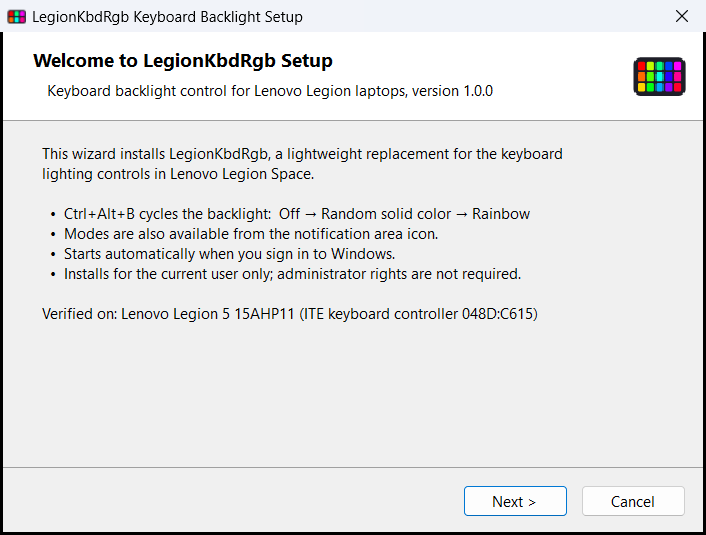
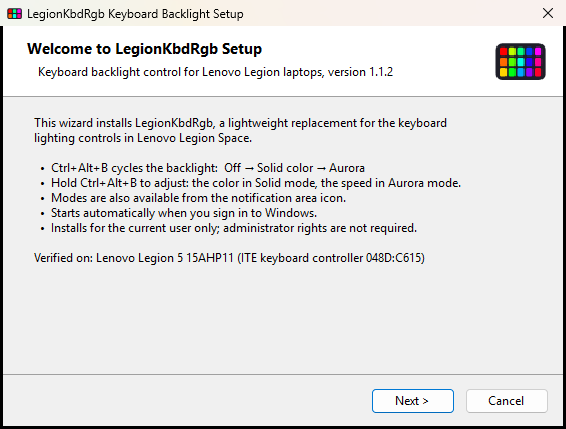
Adjustable Aurora speed and illustrated README (1.1.2)
Aurora mode now has the same hold-to-adjust interaction as Solid mode:
holding Ctrl+Alt+B steps the color-cycle time from 20 s down to 2 s in
1 s steps (one step every 0.35 s), wrapping back to 20 s after the
fastest setting. The value is persisted as a 4th field in state.txt.
The OSD shows it on a calm monochrome Slow-Fast track with one tick per
step, the "N s / cycle" value and a hold/release hint; the Aurora mode
dot rotates at the chosen speed.

README gains a "How to use" section with rendered OSD images for every
mode and both adjust actions, and a refreshed setup-wizard screenshot.
The setup wizard text mentions both hold actions.

diff --git a/src/KbdRgb.cs b/src/KbdRgb.cs
@@ -98,6 +98,7 @@ class LightingWorker {
   readonly object gate = new object();
   Mode mode;
   Color solid;
+  int cycleSeconds = 8;
   int requested, rendered = -1;
   volatile bool stopping;
 
@@ -111,6 +112,9 @@ class LightingWorker {
     lock (gate) { mode = m; solid = c; requested++; }
     wake.Set();
   }
+
+  // Aurora: seconds per trip around the hue wheel. Takes effect on the next frame.
+  public void SetCycle(int seconds) { lock (gate) cycleSeconds = seconds; }
 
   // Re-apply immediately, e.g. after resume or unlock.
   public void Kick() { lock (gate) requested++; wake.Set(); }
@@ -127,15 +131,15 @@ class LightingWorker {
     int failures = 0;
     bool reportedMissing = false;
     while (!stopping) {
-      Mode m; Color c; int req;
-      lock (gate) { m = mode; c = solid; req = requested; }
+      Mode m; Color c; int req, cycle;
+      lock (gate) { m = mode; c = solid; req = requested; cycle = cycleSeconds; }
       var now = DateTime.UtcNow;
       int wait;
       try {
         bool due = m == Mode.Rainbow || req != rendered || now >= nextRefresh;
         if (due) {
           if (m == Mode.Rainbow) {
-            hue = (hue + (now - last).TotalSeconds * 360.0 / 8.0) % 360.0; // full cycle every 8 s
+            hue = (hue + (now - last).TotalSeconds * 360.0 / cycle) % 360.0;
             c = Hsv(hue, 1, 1);
           } else if (m == Mode.Off) c = Color.Black;
           last = now;
@@ -182,6 +186,11 @@ class App : ApplicationContext {
   const int VK_CONTROL = 0x11, VK_MENU = 0x12;
   const int HoldThresholdMs = 400;       // shorter press = tap (next mode)
   const double PickCycleSeconds = 6.0;   // one full trip around the hue wheel while holding
+  // Aurora speed: seconds per color cycle, adjusted in whole-second steps. 2 s is about as fast as
+  // a calm full-keyboard color cycle gets before it reads as flashing; beyond 20 s the change is
+  // hard to notice at all.
+  public const int MinCycle = 2, MaxCycle = 20, DefaultCycle = 8;
+  const int SpeedStepMs = 350;           // while holding, move one step this often
   // Firmware default of the Legion 5 15AHP11 keyboard profile (#5805FF).
   static readonly Color DefaultSolid = Color.FromArgb(0x58, 0x05, 0xFF);
   static readonly string StateFile = Path.Combine(AppDomain.CurrentDomain.BaseDirectory, "state.txt");
@@ -196,6 +205,8 @@ class App : ApplicationContext {
   DateTime pressedAt, lastPickTick;
   bool pressPending, picking;
   double pickHue;
+  int auroraCycle = DefaultCycle;
+  DateTime lastSpeedStep;
   readonly EventWaitHandle exitEvent;
   bool hotkeyOk, hotkeyWarned;
   Mode mode;
@@ -274,11 +285,11 @@ class App : ApplicationContext {
 
   void Next() { Apply((Mode)(((int)mode + 1) % 3)); }
 
-  // Hotkey pressed. Outside solid-color mode it switches mode at once. In solid-color mode we wait
-  // to see whether it is a tap (next mode, on release) or a hold (sweep the hue until release).
+  // Hotkey pressed. In Off mode it switches at once. In Solid and Aurora modes we wait to see whether
+  // it is a tap (next mode, on release) or a hold: Solid sweeps the hue, Aurora steps the cycle time.
   void OnHotkey() {
     if (pressPending) return;
-    if (mode != Mode.Solid) { Next(); return; }
+    if (mode == Mode.Off) { Next(); return; }
     pressPending = true; picking = false;
     pressedAt = DateTime.UtcNow;
     holdTimer.Start();
@@ -292,16 +303,31 @@ class App : ApplicationContext {
     if (!held) {
       holdTimer.Stop();
       pressPending = false;
-      if (picking) { picking = false; Apply(Mode.Solid); Log.Write("Solid color set to #" + (solid.ToArgb() & 0xFFFFFF).ToString("X6")); }
-      else Next();
+      if (!picking) Next();
+      else {
+        picking = false;
+        Apply(mode);
+        if (mode == Mode.Solid) Log.Write("Solid color set to #" + (solid.ToArgb() & 0xFFFFFF).ToString("X6"));
+        else Log.Write("Aurora cycle set to " + auroraCycle + " s");
+      }
       return;
     }
     if (!picking && (now - pressedAt).TotalMilliseconds >= HoldThresholdMs) {
       picking = true;
       pickHue = solid.GetHue();
       lastPickTick = now;
+      lastSpeedStep = DateTime.MinValue; // first speed step happens immediately
     }
-    if (picking) {
+    if (picking && mode == Mode.Rainbow) {
+      // Discrete steps toward faster (the bar fills to the right); after the fastest setting it
+      // wraps back to the slowest and continues.
+      if ((now - lastSpeedStep).TotalMilliseconds >= SpeedStepMs) {
+        lastSpeedStep = now;
+        auroraCycle = auroraCycle <= MinCycle ? MaxCycle : auroraCycle - 1;
+        worker.SetCycle(auroraCycle);
+        osd.ShowSpeed(auroraCycle);
+      }
+    } else if (picking) {
       pickHue = (pickHue + (now - lastPickTick).TotalSeconds * 360.0 / PickCycleSeconds) % 360.0;
       lastPickTick = now;
       solid = LightingWorker.Hsv(pickHue, 1, 1);
@@ -312,8 +338,9 @@ class App : ApplicationContext {
 
   void Apply(Mode m, bool showOsd = true) {
     mode = m;
+    worker.SetCycle(auroraCycle);
     worker.Set(m, solid);
-    if (showOsd) osd.ShowMode(m, solid);
+    if (showOsd) osd.ShowMode(m, solid, auroraCycle);
     offItem.Checked = m == Mode.Off; solidItem.Checked = m == Mode.Solid; rainbowItem.Checked = m == Mode.Rainbow;
     UpdateTrayText();
     SaveState();
@@ -333,11 +360,13 @@ class App : ApplicationContext {
       // Format "mode,argb,2". Older versions stored a random color without the version field;
       // those fall back to the default color.
       solid = p.Length >= 3 && p[2] == "2" ? Color.FromArgb(int.Parse(p[1])) : DefaultSolid;
+      // Optional 4th field (1.2+): aurora cycle seconds.
+      if (p.Length >= 4) auroraCycle = Math.Max(MinCycle, Math.Min(MaxCycle, int.Parse(p[3])));
     } catch { mode = Mode.Rainbow; }
   }
 
   void SaveState() {
-    try { File.WriteAllText(StateFile, (int)mode + "," + solid.ToArgb() + ",2"); } catch (Exception ex) { Log.Write("Could not save state: " + ex.Message); }
+    try { File.WriteAllText(StateFile, (int)mode + "," + solid.ToArgb() + ",2," + auroraCycle); } catch (Exception ex) { Log.Write("Could not save state: " + ex.Message); }
   }
 
   protected override void ExitThreadCore() {
@@ -367,7 +396,8 @@ class App : ApplicationContext {
       Osd.RenderPreview(args[1] + "-off.png", Mode.Off, DefaultSolid, false, 0);
       Osd.RenderPreview(args[1] + "-solid.png", Mode.Solid, DefaultSolid, false, 0);
       Osd.RenderPreview(args[1] + "-aurora.png", Mode.Rainbow, DefaultSolid, false, 0);
-      Osd.RenderPreview(args[1] + "-pick.png", Mode.Solid, LightingWorker.Hsv(160, 1, 1), true, 160);
+      Osd.RenderPreview(args[1] + "-aurora-adjust.png", Mode.Rainbow, DefaultSolid, true, 0, 5);
+      Osd.RenderPreview(args[1] + "-solid-adjust.png", Mode.Solid, LightingWorker.Hsv(160, 1, 1), true, 160);
       return;
     }
     bool created;

diff --git a/src/Osd.cs b/src/Osd.cs
@@ -24,6 +24,7 @@ class Osd : Form {
   readonly float scale;
   Mode mode;
   Color solid;
+  int cycle = App.DefaultCycle;   // Aurora seconds per color cycle
   bool picking;
   double pickHue;
   DateTime shownAt, lastInput;
@@ -58,9 +59,15 @@ class Osd : Form {
   }
 
   // Mode changed (tap, tray menu, or end of a color pick).
-  public void ShowMode(Mode m, Color c) {
+  public void ShowMode(Mode m, Color c, int cycleSeconds) {
     holdMs = picking ? AfterPickMs : VisibleMs;
-    mode = m; solid = c; picking = false;
+    mode = m; solid = c; cycle = cycleSeconds; picking = false;
+    Touch();
+  }
+
+  // Aurora speed adjustment in progress.
+  public void ShowSpeed(int cycleSeconds) {
+    mode = Mode.Rainbow; cycle = cycleSeconds; picking = true;
     Touch();
   }
 
@@ -88,7 +95,7 @@ class Osd : Form {
   // Bitmaps render at 96 dpi, so size fonts in pixels scaled to the monitor DPI.
   Font Px(string family, float points) { return new Font(family, points * 96f / 72f * scale, FontStyle.Regular, GraphicsUnit.Pixel); }
 
-  bool HasPickerRows { get { return mode == Mode.Solid; } }
+  bool HasPickerRows { get { return mode != Mode.Off; } }
 
   int PanelHeight { get { return HeaderH + ChipsH + HintH + (HasPickerRows ? PickerH : 0) + BottomPad; } }
 
@@ -127,8 +134,8 @@ class Osd : Form {
   }
 
   // Development aid: render the panel to a PNG without showing a window (--render-osd).
-  public static void RenderPreview(string path, Mode m, Color c, bool picker, double hue) {
-    var o = new Osd { mode = m, solid = c, picking = picker, pickHue = hue };
+  public static void RenderPreview(string path, Mode m, Color c, bool picker, double hue, int cycleSeconds = App.DefaultCycle) {
+    var o = new Osd { mode = m, solid = c, picking = picker, pickHue = hue, cycle = cycleSeconds };
     int w = o.S(W), h = o.S(o.PanelHeight);
     using (var bmp = new Bitmap(w + 40, h + 40, PixelFormat.Format32bppArgb)) {
       using (var g = Graphics.FromImage(bmp)) {
@@ -183,7 +190,8 @@ class Osd : Form {
     // Hotkey hint under the chips
     DrawHint(g, w, S(HeaderH + ChipsH) + S(6), "Press", "Ctrl+Alt+B", "to switch mode");
 
-    if (HasPickerRows) DrawPicker(g, w);
+    if (mode == Mode.Solid) DrawPicker(g, w);
+    else if (mode == Mode.Rainbow) DrawSpeed(g, w);
   }
 
   // Centered hint line with the hotkey drawn as a keycap: "<before> [key] <after>".
@@ -217,7 +225,7 @@ class Osd : Form {
       using (var b = new SolidBrush(Color.FromArgb(a, solid))) g.FillEllipse(b, r);
     } else {
       // Rotating hue sweep, like the Aurora effect itself.
-      double phase = (DateTime.UtcNow.TimeOfDay.TotalSeconds * 45) % 360;
+      double phase = AuroraPhase();
       using (var br = HueBrush(r, phase, a)) g.FillEllipse(br, r);
     }
   }
@@ -250,6 +258,57 @@ class Osd : Form {
 
     if (picking) DrawHint(g, w, bar.Bottom + S(44), "Release", "Ctrl+Alt+B", "to keep this color");
     else DrawHint(g, w, bar.Bottom + S(44), "Hold", "Ctrl+Alt+B", "to adjust the color");
+  }
+
+  // Hue the keyboard is roughly showing now, so the OSD's Aurora visuals move at the chosen speed.
+  double AuroraPhase() { return (DateTime.UtcNow.TimeOfDay.TotalSeconds * 360.0 / cycle) % 360; }
+
+  // Aurora row: discrete speed track (Slow ... Fast), one tick per step, value in seconds per cycle.
+  void DrawSpeed(Graphics g, int w) {
+    float top = S(HeaderH + ChipsH + HintH);
+    using (var div = new Pen(Color.FromArgb(28, 255, 255, 255), 1)) g.DrawLine(div, S(Pad + 6), top, w - S(Pad + 6), top);
+    var bar = new RectangleF(S(Pad + 10), top + S(18), w - 2 * S(Pad + 10), S(14));
+    int steps = App.MaxCycle - App.MinCycle;
+    float frac = (App.MaxCycle - cycle) / (float)steps;   // left = slow, right = fast
+    float mx = bar.X + frac * bar.Width, my = bar.Y + bar.Height / 2;
+    // Calm monochrome track: dim groove, light-gray fill up to the marker.
+    var filled = new RectangleF(bar.X, bar.Y, Math.Max(bar.Height, mx - bar.X + bar.Height / 2), bar.Height);
+    using (var p = Round(bar, bar.Height / 2)) {
+      using (var track = new SolidBrush(Color.FromArgb(26, 255, 255, 255))) g.FillPath(track, p);
+      using (var fp = Round(filled, bar.Height / 2))
+      using (var fb = new SolidBrush(Color.FromArgb(150, 205, 208, 216))) g.FillPath(fb, fp);
+      using (var pen = new Pen(Color.FromArgb(50, 255, 255, 255), 1)) g.DrawPath(pen, p);
+    }
+    // One tick per whole-second step: dark on the filled part, light on the groove.
+    float tr = Math.Max(1f, S(1.5f)), inset = bar.Height / 2;
+    using (var onFill = new SolidBrush(Color.FromArgb(90, 20, 20, 26)))
+    using (var onTrack = new SolidBrush(Color.FromArgb(90, 255, 255, 255)))
+      for (int i = 0; i <= steps; i++) {
+        float tx = bar.X + inset + i * (bar.Width - 2 * inset) / steps;
+        g.FillEllipse(tx <= mx ? onFill : onTrack, tx - tr, my - tr, tr * 2, tr * 2);
+      }
+    // Marker
+    float mr = S(10);
+    mx = Math.Max(bar.X + mr * 0.6f, Math.Min(bar.Right - mr * 0.6f, mx));
+    using (var shadow = new SolidBrush(Color.FromArgb(90, 0, 0, 0))) g.FillEllipse(shadow, mx - mr, my - mr + S(2), mr * 2, mr * 2);
+    using (var fill = new SolidBrush(Color.FromArgb(255, 236, 238, 242))) g.FillEllipse(fill, mx - mr, my - mr, mr * 2, mr * 2);
+    using (var ring = new Pen(Color.FromArgb(255, 150, 154, 164), Math.Max(1.5f, S(1.5f)))) g.DrawEllipse(ring, mx - mr, my - mr, mr * 2, mr * 2);
+
+    // "Slow" / value / "Fast"
+    float y = bar.Bottom + S(12);
+    using (var dim = new SolidBrush(Color.FromArgb(110, 255, 255, 255))) {
+      g.DrawString("Slow", hintFont, dim, bar.X, y);
+      var fs = g.MeasureString("Fast", hintFont);
+      g.DrawString("Fast", hintFont, dim, bar.Right - fs.Width, y);
+    }
+    using (var tb = new SolidBrush(Color.FromArgb(200, 255, 255, 255))) {
+      string v = cycle + " s / cycle";
+      var sz = g.MeasureString(v, hexFont);
+      g.DrawString(v, hexFont, tb, (w - sz.Width) / 2, y);
+    }
+
+    if (picking) DrawHint(g, w, bar.Bottom + S(44), "Release", "Ctrl+Alt+B", "to keep this speed");
+    else DrawHint(g, w, bar.Bottom + S(44), "Hold", "Ctrl+Alt+B", "to adjust the speed");
   }
 
   static LinearGradientBrush HueBrush(RectangleF r, double phase, int alpha) {

diff --git a/src/setup/Setup.cs b/src/setup/Setup.cs
@@ -274,7 +274,7 @@ class Wizard : Form {
       "This wizard installs LegionKbdRgb, a lightweight replacement for the keyboard\n" +
       "lighting controls in Lenovo Legion Space.\n\n" +
       "  •  Ctrl+Alt+B cycles the backlight:  Off → Solid color → Aurora\n" +
-      "  •  In solid-color mode, hold Ctrl+Alt+B to sweep through colors; release to keep one.\n" +
+      "  •  Hold Ctrl+Alt+B to adjust: the color in Solid mode, the speed in Aurora mode.\n" +
       "  •  Modes are also available from the notification area icon.\n" +
       "  •  Starts automatically when you sign in to Windows.\n" +
       "  •  Installs for the current user only; administrator rights are not required.\n\n" +
@@ -378,7 +378,7 @@ class Wizard : Form {
     finishText.Text = op == Op.Uninstall
       ? "LegionKbdRgb has been successfully removed.\n\nKeyboard lighting has been returned to the firmware default."
       : "Press Ctrl+Alt+B to cycle the keyboard backlight:\n\n    Off → Solid color → Aurora\n" +
-        "In solid-color mode, hold Ctrl+Alt+B to choose a color.\n\n" +
+        "Hold Ctrl+Alt+B to choose the Solid color or the Aurora speed.\n\n" +
         "LegionKbdRgb starts automatically when you sign in. To repair or remove it, open\n" +
         "Settings > Apps > Installed apps and select LegionKbdRgb Keyboard Backlight.";
     if (!started) {

diff --git a/src/Version.cs b/src/Version.cs
@@ -1,4 +1,4 @@
 static class LegionKbdRgbVersion {
-  public const string Value = "1.1.1.0";
-  public const string Display = "1.1.1";
+  public const string Value = "1.1.2.0";
+  public const string Display = "1.1.2";
 }

diff --git a/README.md b/README.md
@@ -4,15 +4,35 @@ A tiny, dependency-free replacement for the keyboard backlight controls in **Len
 
 Removing Legion Space also stops **Fn+Space** from changing the keyboard RGB lighting. LegionKbdRgb brings that control back with a global hotkey and a tray icon. It is a single ~60 KB executable that uses almost no CPU, has no background services and no telemetry, and does not need administrator rights.
 
-![Setup wizard](docs/setup-wizard.png)
+<p align="center"><img src="docs/osd-solid.png" alt="On-screen display in Solid mode" width="440"></p>
+
+## How to use
+
+Everything is done with one hotkey, **Ctrl+Alt+B**. Each press shows a small on-screen display (OSD) near the bottom of the screen. The OSD is click-through, never takes focus, and fades out 2 seconds after your last key press.
+
+### Tap to switch modes
+
+A short press cycles **Off → Solid → Aurora → Off**.
+
+| Off | Solid | Aurora |
+|:---:|:---:|:---:|
+| <img src="docs/osd-off.png" alt="Off" width="290"> | <img src="docs/osd-solid.png" alt="Solid" width="290"> | <img src="docs/osd-aurora.png" alt="Aurora" width="290"> |
+| Backlight off | One fixed color. The default is the Legion firmware purple `#5805FF`. | The whole keyboard flows smoothly through the color wheel. |
+
+### Hold to adjust
+
+In **Solid** and **Aurora** modes, holding Ctrl+Alt+B for about 0.4 s adjusts the current mode instead of switching. Release the keys to keep the value. It is remembered across reboots. A short tap still moves to the next mode.
+
+| Solid: choose a color | Aurora: choose the speed |
+|:---:|:---:|
+| <img src="docs/osd-solid-adjust.png" alt="Choosing a solid color" width="430"> | <img src="docs/osd-aurora-adjust.png" alt="Choosing the aurora speed" width="430"> |
+| The color sweeps around the hue wheel, taking 6 s for a full turn. The keyboard follows live. | The speed steps through **20 s → 2 s per color cycle**, one second at a time, moving toward *Fast* about three times a second. After the fastest setting it wraps back to the slowest. |
+
+*Reset solid color to default* in the tray menu restores the purple.
 
 ## Features
 
-- **Ctrl+Alt+B** cycles the backlight: **Off → Solid color → Aurora → Off**
-  - *Solid color* defaults to the Legion firmware purple (`#5805FF`).
-  - **Choosing a color:** in solid-color mode, **hold** Ctrl+Alt+B. After about 0.4 s the color starts sweeping around the hue wheel, taking 6 s for a full turn. Release the keys to keep the color shown at that moment. It is remembered. A short tap still moves to the next mode.
-  - *Reset solid color to default* in the tray menu restores the purple.
-  - *Aurora* smoothly cycles through the hue wheel every 8 seconds.
+- A single hotkey with tap and hold actions, plus the OSD described above.
 - A notification-area (tray) icon: left-click selects the next mode; right-click opens a menu to pick a mode or exit.
 - The last mode is remembered across sign-out and reboot.
 - Designed to keep running unattended:
@@ -70,6 +90,9 @@ Download `LegionKbdRgb-Setup-<version>.exe` from the [latest release](https://gi
 > Maintainers who want signed builds can configure optional signing; see [docs/code-signing.md](docs/code-signing.md).
 
 ### What the installer does
+
+<p align="center"><img src="docs/setup-wizard.png" alt="Setup wizard" width="560"></p>
+
 
 | Item | Location |
 |---|---|
